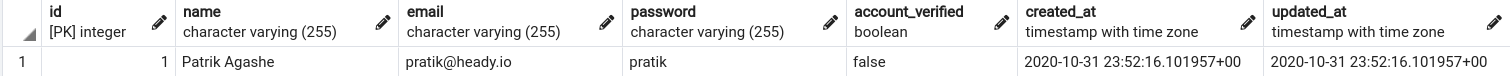
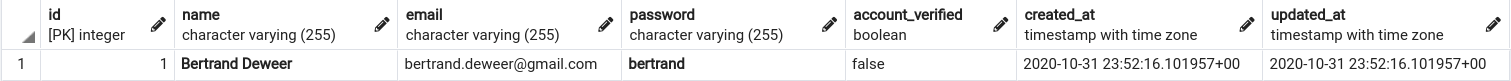
db knex

diff --git a/_data/blog/2020-11-05-knex-migrations.md b/_data/blog/2020-11-05-knex-migrations.md
@@ -9,31 +9,31 @@ metaDescription: knexmigrations
 
 ## Introduction
 
->Avant de commencer, précisions que cet article est un sous-post de [Construire une application web full-stack avec Postgraphile et React](/live-queries). Soyez certain d'avoir un serveur PostgreSQL en cours d'exécution sur votre ordinateur.
+>Avant de commencer, précisions que cet article est un sous-post de [Les lives queries pour une application web réactive - Partie 1](/live-queries-server). Soyez certain d'avoir un serveur PostgreSQL en cours d'exécution sur votre ordinateur.
 
-[Knexjs](http://knexjs.org) est un constructeur de requêtes pour PostgreSQL, MSSQL, MySQL, MariaDB, SQLite3, Oracle et Amazon Redshift. C'est flexible, portable et fun à utiliser. Nous allons l'utiliser pour maintenir notre schéma de base de données.
+[Knex.js](http://knexjs.org) est un constructeur de requêtes pour PostgreSQL, MSSQL, MySQL, MariaDB, SQLite3, Oracle et Amazon Redshift. C'est flexible, portable et fun à utiliser. Nous allons l'utiliser pour maintenir notre schéma de base de données.
 
 ![Alt text here](/assets/knex.png#lightbox=true;display=block;margin-left=auto;margin-right=auto;width=50%)
 
-Knex-migrate garde un oeil sur vos changements de schémas et données, ce qui est très util lors de migration de base de données. Knex-migrate dispose de tous les fichiers et logs. Nous n'avons donc qu'à exécuter une commande et knex-migrate prendra soin de construire tous les schémas et les entrées de données statiques dans la base de données.
+`Knex-migrate` garde un oeil sur vos changements de schémas et données, ce qui est très utile lors de migration de base de données. `Knex-migrate` dispose de tous les fichiers et logs. Nous n'avons donc qu'à exécuter une commande et `knex-migrate` prendra soin de construire tous les schémas et les entrées de données statiques dans la base de données.
 
 Un avantage majeur est que nous pouvons cloner notre projet dans un nouvel environnement pour ensuite exécuter les scripts knex migrations. Knex prendra soin de tout le reste.
 
-Démarrons donc avec notre création de schéma à l'aide de knex-migrate. Nous devons être certain d'avoir knex et knex-migrate installés dans notre projet. Si pas, nous devons exécuter la commande suivante :
+Démarrons donc avec notre création de schéma à l'aide de `knex-migrate`. Nous devons être certain d'avoir `knex` et `knex-migrate` installés dans notre projet. Si pas, nous devons exécuter la commande suivante :
 
 
 
 ```bash
 npm install knex knex-migrate
 ```
-
-Naviguons vers le dossier `server` et lançons la commande suivate :
+&nbsp;  
+Lançons ensuite l'initialisation avec : 
 
 ```npx
 npx knex init
 ```
-
-Cette commande a pour effet de générer le fichier `knexfile.js` sous le dossier `server`. C'est un fichier auto-généré par `knex`, lequel inclus toutes les configurations pour se connecter à la base de données selon l'environnement tel que développement, recette, pré-production, production. J'ai mis à jour la section connexion de développement dans le fichier `knexfile.js` afin de se connecter à notre base postgres. Le fichier doit donc ressembler à ceci :
+&nbsp;  
+Cette commande a pour effet de générer le fichier `knexfile.js`. C'est un fichier auto-généré par `knex`, lequel inclus toutes les configurations pour se connecter à la base de données selon l'environnement tel que développement, recette, pré-production, production. J'ai mis à jour la section développement. Le fichier doit donc ressembler à ceci :
 
 ```javascript
 require('dotenv').config()
@@ -91,11 +91,9 @@ module.exports = {
     },
 }
 ```
-&nbsp;
-
-Voici également le fichier .env faisant référence.
-
-&nbsp;
+&nbsp;  
+Voici également le fichier `.env` faisant référence.
+&nbsp;  
 ```
 CLIENT=pg
 PORT=8080
@@ -106,24 +104,23 @@ PASSWORD=changeme
 HOST=0.0.0.0
 PG_PORT=5432
 ```
-
-Mettez à jour ces valeurs selon la configuration de votre base de données et de votre environnement. Suivant ce fichier de configuration, vous devez créer les dossiers `migrations` et `seeds` sous le dossier `server/db`.
+&nbsp;  
+Mettez à jour ces valeurs selon la configuration de votre base de données et de votre environnement. Suivant ce fichier de configuration, vous devez créer les dossiers `migrations` et `seeds` sous le dossier `db` que vous devez également créer.
 
 `migrations` contiendra les fichiers déterminants notre schéma. `seeds` contiendra les fichiers contenant nos données à mettre à jour dans la base de données.
-
-&nbsp;
-A présent, pour utiliser la configuration de connexion avec `knex`, nous devons créer le fichier `knex.js` sous `src/db`. Ce fichier exportera un module de connexion basé sur l'environnement.
+&nbsp;  
+A présent, pour utiliser la configuration de connexion avec `knex`, nous devons créer le fichier `knex.js` dans `db`. Ce fichier exportera un module de connexions basé sur l'environnement.
 
 ```javascript
 const environment = process.env.NODE_ENV || 'development'
 const config = require('../knexfile')[environment]
 module.exports = require('knex')(config)
 ```
-
+&nbsp;  
 A présent, notre arborécense devrait ressemble à ceci :
 
 ```
-- Server
+- server
   - db
     - migrations
     - seeds
@@ -133,27 +130,20 @@ A présent, notre arborécense devrait ressemble à ceci :
   .env
   knexfile.js
 ```
-
-A ce stade, nous allons créer les tables dans notre de données en utilisant `knex-migrate`. Les données seront également insérées. Pour plus d'informations concernant `knex schema`, rendez-vous sur : [http://knexjs.org/#Schema](http://knexjs.org/#Schema)
-
-&nbsp;
-
-
+&nbsp;  
+A ce stade, nous allons créer les tables dans notre base de données en utilisant `knex-migrate`. Les données seront également insérées. Pour plus d'informations concernant `knex schema`, rendez-vous sur : [http://knexjs.org/#Schema](http://knexjs.org/#Schema)
+&nbsp;  
 Afin de créer la migration de schéma, nous avons besoin de lancer la commande qui créera un fichier auto-généré sous la dossier migration avec un date timestamp dans le nom de fichier.
 
-Par exemple : For example: *20201031221921_migration_create_table.js*
+Par exemple : *20201031221921_migration_create_table.js*
 
-&nbsp;
-
-Voici la commande permettant de créer le fichier de migration:
+Voici la commande en question :
 
 ```bash
 knex migrate:make migration_create_table
 ```
-
-&nbsp;
-
-Voici le fichier *`20201031221921_migration_create_table.js`* avec les détails du schéma voulu.
+&nbsp;  
+Voici le fichier *`20201031221921_migration_create_table.js`* avec les détails du schéma attendu.
 
 ```javascript
 exports.up = function(knex) {
@@ -202,20 +192,20 @@ exports.down = function(knex) {
     return knex.schema.dropTable('posts').dropTable('users').dropTable('comments')
 }
 ```
-
-Afin de mettre à jour ce schéma vers notre base de données postgres, nous devons exécuter la commande suivante :
+&nbsp;  
+Afin de mettre à jour ce schéma vers notre base de données `PostgreSQL`, nous devons exécuter la commande suivante :
 
 ```bash
 npx knex migrate:latest
 ```
-
-Retournons dans PgAdmin afin de voir que la commande `knex-migrate` a correctement créé les tables en accord avec le schéma configuré.
+&nbsp;  
+Retournons dans `PgAdmin` afin de voir que la commande `knex-migrate` a correctement créé les tables en accord avec le schéma configuré.
 
 
 ![Alt text here](/assets/knex-migrate.png#lightbox=true;display=block;margin-left=auto;margin-right=auto;width=20%)
 
 
-Maintenant que nos tables sont prêtes, nous pouvons y insérer des données en utilisant `seeds`. Nous allons créer deux fichier seeds: un pour l'utilisateur et un autre pour le post. Voici les commandes et fichiers d'exemples créés.
+Maintenant que nos tables sont prêtes, nous pouvons y insérer des données en utilisant `seeds`. Nous allons créer deux fichier seeds ; un pour l'utilisateur et un autre pour le post. Voici les commandes et fichiers d'exemples créés.
 
 ```bash
 npx knex seed:make 01_users
@@ -224,18 +214,14 @@ npx knex seed:make 01_users
 ```bash
 npx knex seed:make 02_posts
 ```
+&nbsp;  
+Contrairement à la commande `migration`, ces commandes vont créer des fichiers auto-générés dans `seeds`.
 
-Contrairement à la commande `migration`, ces commandes vont créer des fichiers auto générés dans `seeds`.
+Dans notre cas : *`01_users.js`* et *`02_posts.js`*
 
-Dans notre cas : *01_users.js and 02_posts.js*
+Une chose importante à retenir est que le nom des fichiers `seeds` doivent démarrer avec un nombre incrémental. Plus de détails ici : [http://knexjs.org/#Seeds-CLI](http://knexjs.org/#Seeds-CLI).
 
-
-One important thing to remember while creating seed files is to have the filename start with an incremental number, for chronology. Read more details on this here: http://knexjs.org/#Seeds-CLI.
-Here are the sample seed files I have created to insert users and one blog associated with that user:
-
-Une chose importante à retenir est que le nom des fichiers seeds doivent démarrer avec un nombre incrémental. Plus de détails ici : [http://knexjs.org/#Seeds-CLI](http://knexjs.org/#Seeds-CLI).
-
-Voici les fichiers seed d'exemple créés pour insérer des utilisateurs avec un blog qui lui est associé.
+Voici les fichiers `seeds` d'exemple créés pour insérer des utilisateurs avec un blog lui étant associé.
 
 ```javascript
 exports.seed = function(knex) {
@@ -247,9 +233,9 @@ exports.seed = function(knex) {
             return knex('users').insert([
                 {
                     id: 1,
-                    name: 'Pratik Agashe',
-                    email: 'pratik@heady.io',
-                    password: 'pratik',
+                    name: 'Bertrand Deweer',
+                    email: 'bertrand.deweer@gmail.com',
+                    password: 'bertrand',
                 },
             ])
         })
@@ -275,7 +261,7 @@ exports.seed = function(knex) {
         })
 }
 ```
-
+&nbsp;  
 J'utilise la fonction `del()` afin de supprimer les entrées existantes. Vous pouvez supprimer cette instruction lors d'un script de mise à jour.
 
 Lançons à présent la commande suivante pour exécuter les fichiers seeds :
@@ -283,14 +269,13 @@ Lançons à présent la commande suivante pour exécuter les fichiers seeds :
 ```bash
 npx knex seed:run
 ```
-
-
+&nbsp;  
 ![Alt text here](/assets/users.png#lightbox=true;display=block;margin-left=auto;margin-right=auto;width=100%)
 
 
 
 ![Alt text here](/assets/posts.png#lightbox=true;display=block;margin-left=auto;margin-right=auto;width=100%)
 
-J'espère que cet article vous aura donnée une idée de ce que pouvez faire avec knex-migrate pour la construction de vos schémas et pour vous permettre de suivre leurs évolutions.
+J'espère que cet article vous aura donné une idée de ce que pouvez faire avec `knex-migrate` pour la construction de vos schémas et pour vous permettre de suivre leurs évolutions.
 
 Merci!
